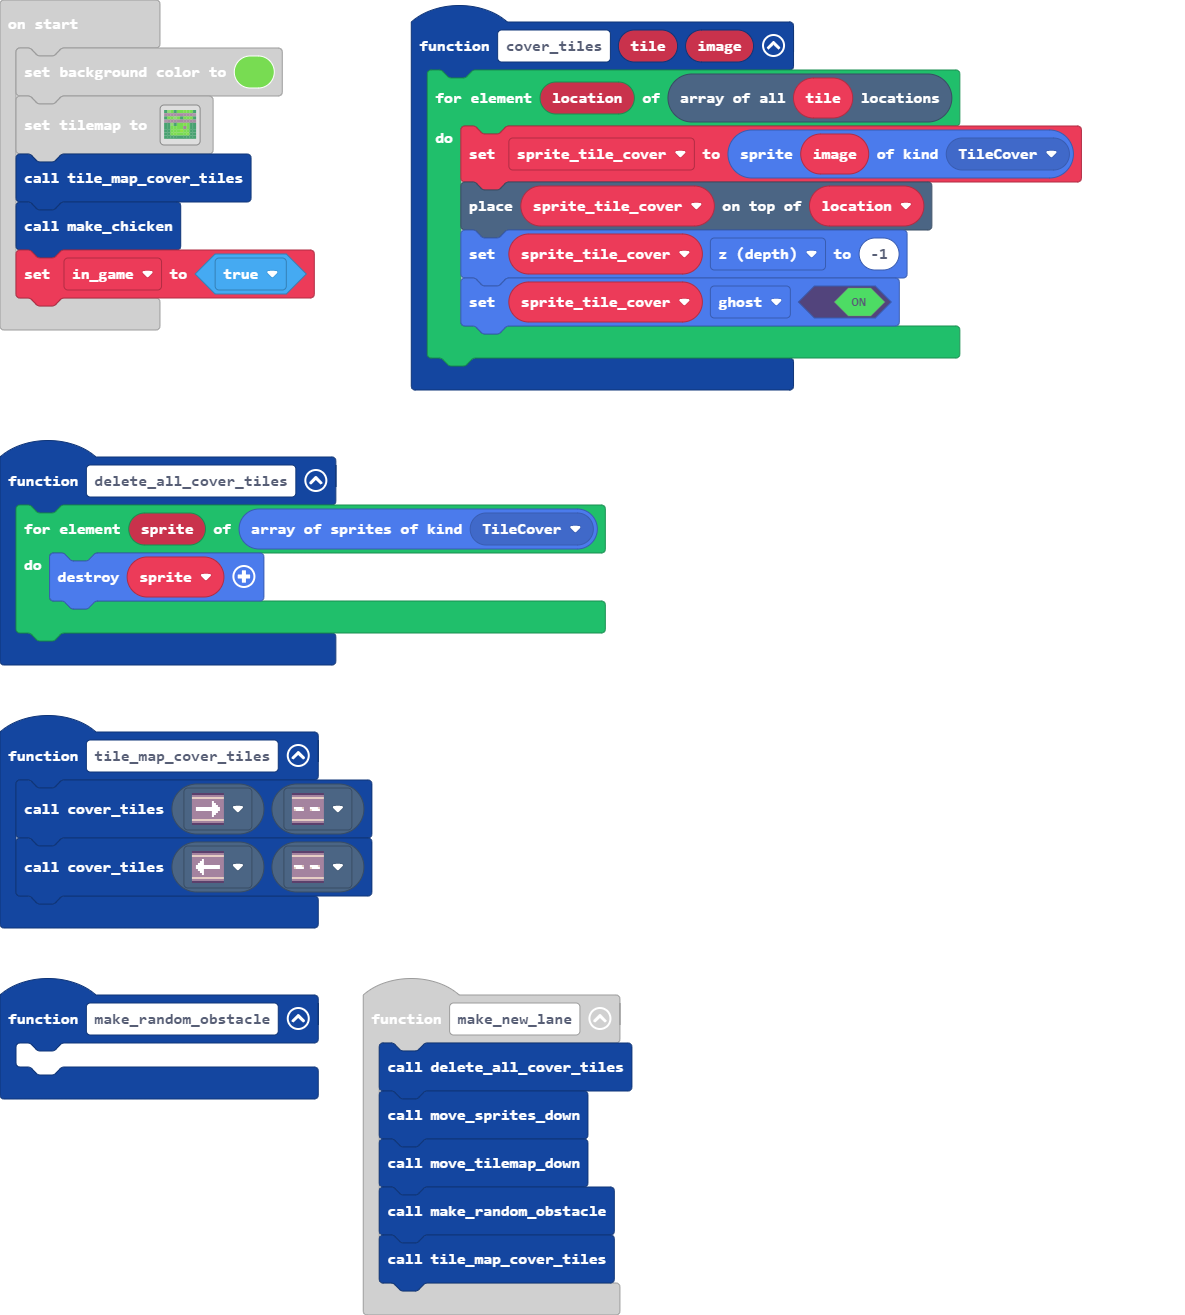
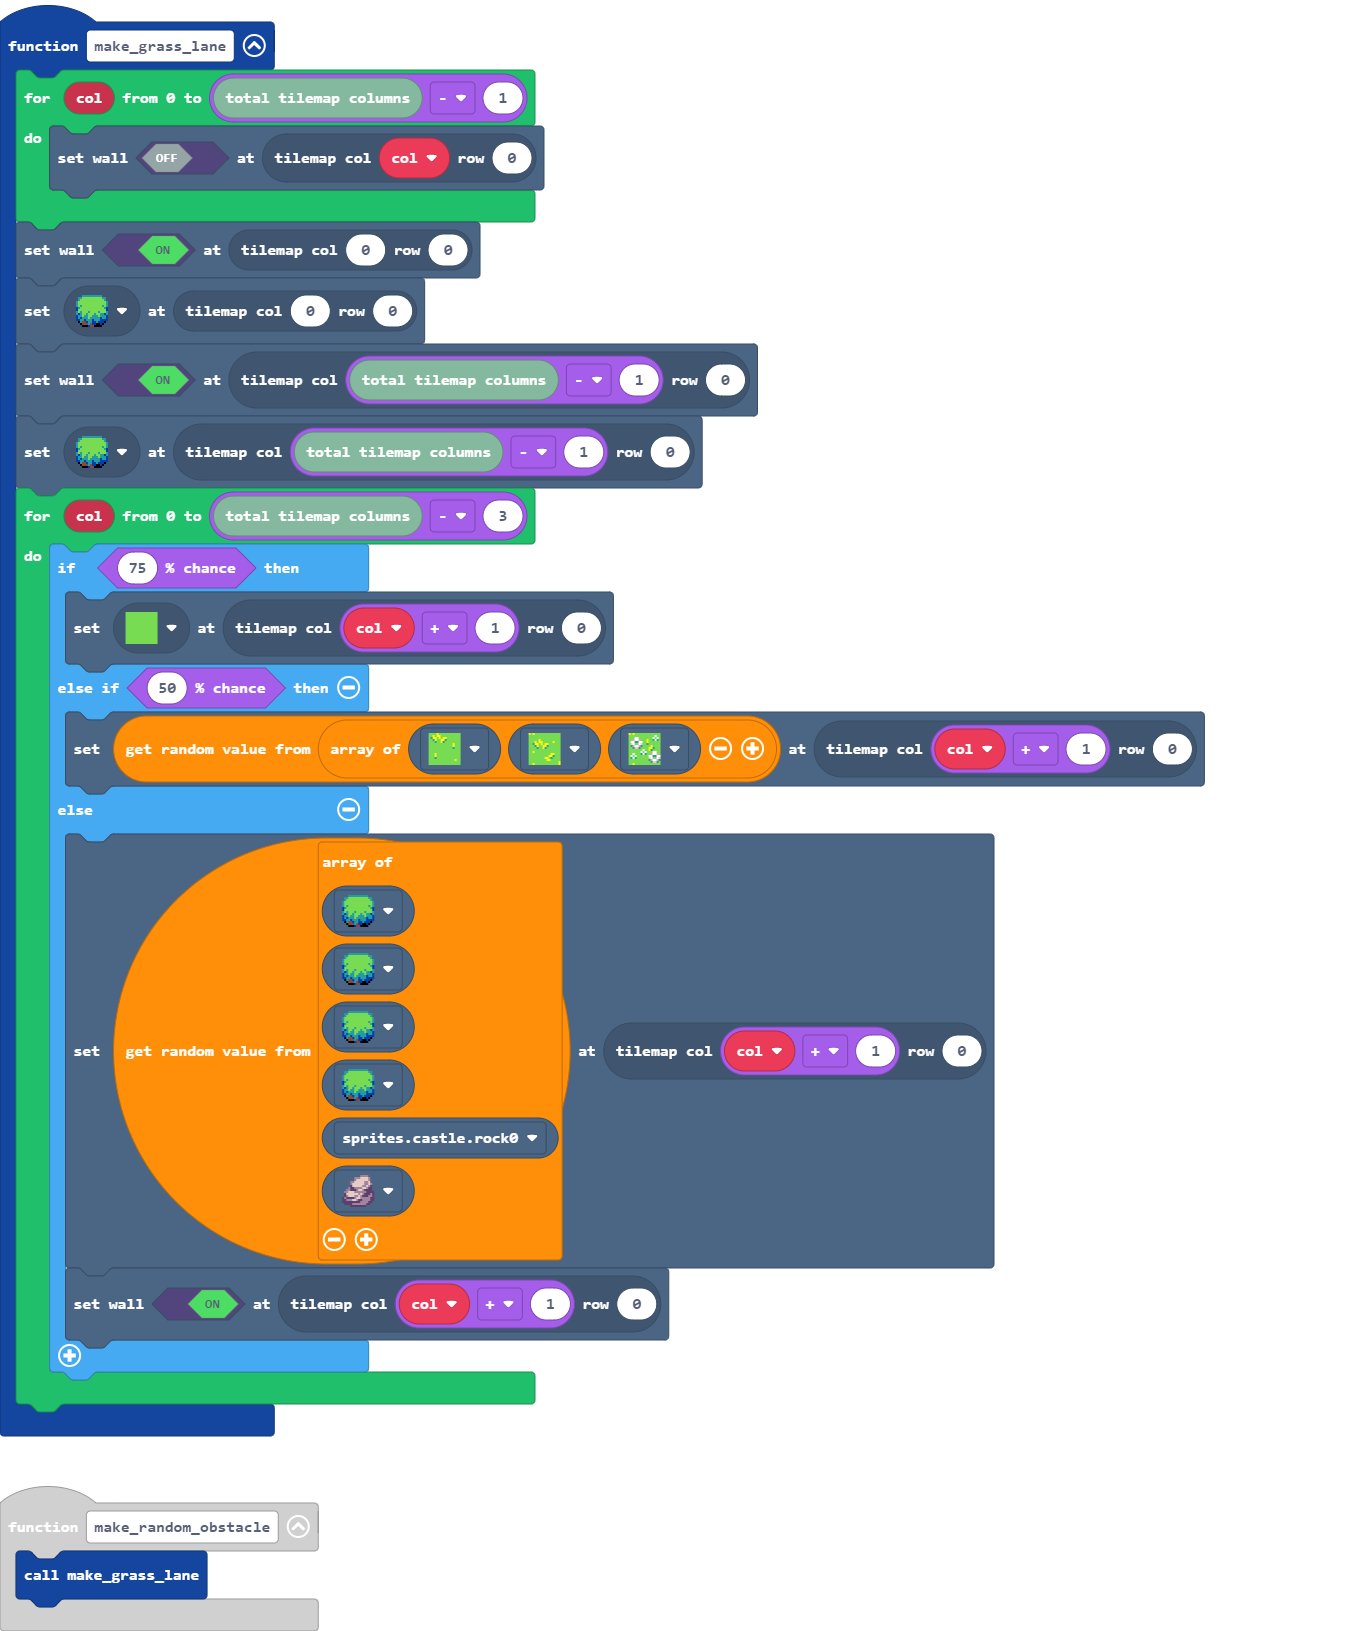
Can make grass lanes

diff --git a/main.ts b/main.ts
@@ -7,11 +7,37 @@ controller.up.onEvent(ControllerButtonEvent.Pressed, function () {
     }
 })
 function make_random_obstacle () {
-	
+    make_grass_lane()
 }
 function delete_all_cover_tiles () {
     for (let sprite of sprites.allOfKind(SpriteKind.TileCover)) {
         sprite.destroy()
+    }
+}
+function make_grass_lane () {
+    for (let col = 0; col <= tiles.tilemapColumns() - 1; col++) {
+        tiles.setWallAt(tiles.getTileLocation(col, 0), false)
+    }
+    tiles.setWallAt(tiles.getTileLocation(0, 0), true)
+    tiles.setTileAt(tiles.getTileLocation(0, 0), sprites.builtin.forestTiles0)
+    tiles.setWallAt(tiles.getTileLocation(tiles.tilemapColumns() - 1, 0), true)
+    tiles.setTileAt(tiles.getTileLocation(tiles.tilemapColumns() - 1, 0), sprites.builtin.forestTiles0)
+    for (let col = 0; col <= tiles.tilemapColumns() - 3; col++) {
+        if (Math.percentChance(75)) {
+            tiles.setTileAt(tiles.getTileLocation(col + 1, 0), assets.tile`grass`)
+        } else if (Math.percentChance(50)) {
+            tiles.setTileAt(tiles.getTileLocation(col + 1, 0), [sprites.castle.tileGrass1, sprites.castle.tileGrass3, sprites.castle.tileGrass2]._pickRandom())
+        } else {
+            tiles.setTileAt(tiles.getTileLocation(col + 1, 0), [
+            sprites.builtin.forestTiles0,
+            sprites.builtin.forestTiles0,
+            sprites.builtin.forestTiles0,
+            sprites.builtin.forestTiles0,
+            sprites.castle.rock0,
+            sprites.castle.rock1
+            ]._pickRandom())
+            tiles.setWallAt(tiles.getTileLocation(col + 1, 0), true)
+        }
     }
 }
 function cover_tiles (tile: Image, image2: Image) {

diff --git a/tilemap.g.ts b/tilemap.g.ts
@@ -14,7 +14,7 @@ namespace myTiles {
     helpers._registerFactory("tilemap", function(name: string) {
         switch(helpers.stringTrim(name)) {
             case "map":
[2 lines of base64/hex data omitted]
 2 . . 2 . . . . . 2 
 . . . . . . . . . . 
 2 . . . . 2 . . . 2 
@@ -24,7 +24,7 @@ namespace myTiles {
 2 2 . . . . . . 2 2 
 2 2 . . . . . . 2 2 
 2 2 2 2 2 2 2 2 2 2 
-`, [myTiles.transparency16,myTiles.tile1,sprites.builtin.forestTiles0,sprites.castle.tileGrass1,sprites.castle.tileGrass3,sprites.castle.tileGrass2,sprites.castle.rock0,sprites.vehicle.roadHorizontal,myTiles.tile2,myTiles.tile3,myTiles.tile4], TileScale.Sixteen);
+`, [myTiles.transparency16,myTiles.tile1,sprites.builtin.forestTiles0,sprites.castle.tileGrass1,sprites.castle.tileGrass3,sprites.castle.tileGrass2,sprites.vehicle.roadHorizontal,myTiles.tile2,myTiles.tile3,myTiles.tile4,sprites.castle.rock1], TileScale.Sixteen);
         }
         return null;
     })
